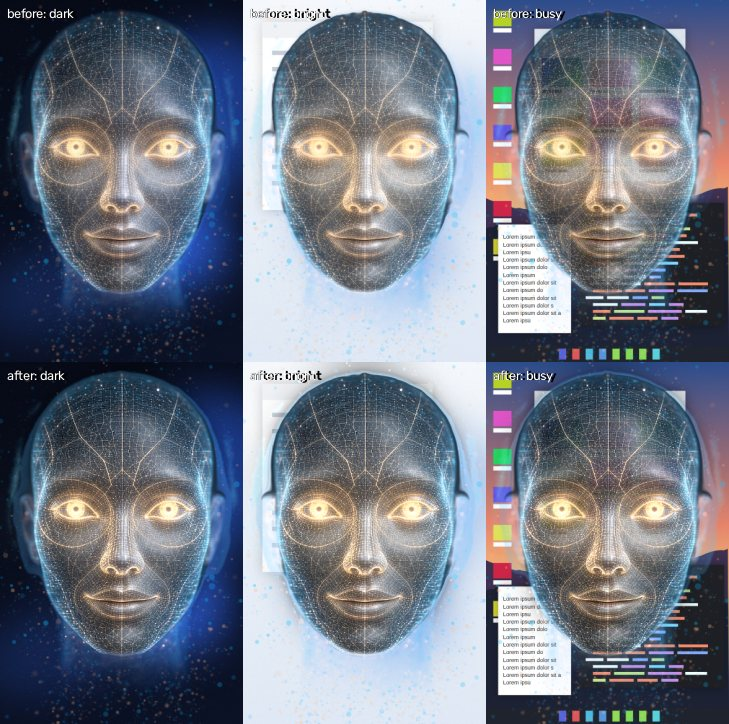
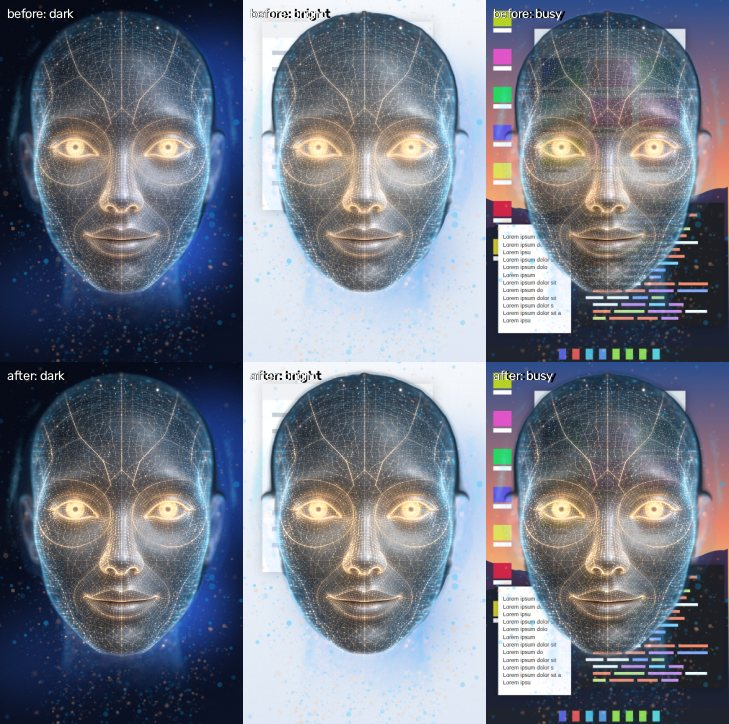
Docs: the behaviour's calm stretches and the user first; the hologram's tiers, outline and cost, remeasured
Claude-Session: https://claude.ai/code/session_01PYS5SFJYkxWXZ5M9LNxvi9

diff --git a/docs/RENDERER.md b/docs/RENDERER.md
@@ -276,63 +276,81 @@ On top of the motion, `src/avatar/behavior.js` gives the avatar a person's spont
 posture, a gaze target of its own, face channels outside speech).
 
 * **Scheduling.** Four tracks (gaze, head, face, breath), one gesture at a time on each. A free
-  track waits a random time (gamma(2): random, without a Poisson process' very long gaps) drawn
-  from the total rate of the gestures that fit the situation now (the state, typing, the camera's
-  view of the user, boredom), then starts one of them picked by its rate. Each kind has a
-  refractory period (a pick inside it does not happen), and every instance draws its own
-  durations, amplitudes and directions; a change of situation draws the pending waits again, the
-  first one in a new state half as long. Start times are continuous (not frames): 60 and 144 Hz
-  show the same behaviour. Nothing runs on a clock.
+  track waits an exponential (random, memoryless) time drawn from the total rate of the gestures
+  that fit the situation now (the state, typing, the camera's view of the user, boredom), then
+  starts one of them picked by its rate. Each kind has a refractory period (a pick inside it does
+  not happen), and every instance draws its own durations, amplitudes and directions; a change of
+  situation draws the pending waits again, the first one in a new state half as long. Start times
+  are continuous (not frames) and every track, the posture, the activity state and the user's
+  events draw from their own random stream: 60 and 144 Hz show the same gestures at the same
+  moments for minutes on end. Nothing runs on a clock.
+* **Calm and active stretches.** People move in bursts and are still in between: a hidden slow
+  activity state alternates calm bouts (log-normal, median 40 s) with active ones (median 25 s)
+  and scales the rates (x 0.17 calm, x 2.3 active in idle, the square root of that while
+  listening or thinking; normalised to the kinds' mean). The gestures come in clusters (the Fano
+  factor of their onsets in 30 s windows is 1.2-2.5 at the default liveliness; a regular process
+  is < 1) with a calm half minute in most two-minute windows.
+* **The user comes first.** The cursor (`lookAt(..., 'cursor')`), the camera's face, the user
+  coming back into view or looking back cut the avatar's own looks short at once: the eyes are on
+  the user within ~0.1 s, the head's share of the look goes back in 0.2-0.35 s, and no new look of
+  its own starts for 1.2-2 s.
 * **Kinematics.** Minimum-jerk envelopes and pulses that start and end at rest; a look into the
   room is a saccade of the eyes (the eye controller) with the head following in minimum-jerk steps
-  (35-50 % of it, 0.3-0.8 s, starting a moment after the eyes; the eyes counter-rotate, so the
-  gaze holds still while the head arrives). The posture drifts through slow critically damped
-  springs toward targets that change every 4-45 s (log-normal). A gesture cut short (a state
-  change) fades out over 0.25-0.45 s, so nothing steps.
-* **Repertoire** (rates per minute at the default liveliness):
+  (30-50 % of it, at least what keeps the eyes within 13 deg of straight ahead in the head;
+  0.3-0.8 s, starting a moment after the eyes; the eyes counter-rotate, so the gaze holds still
+  while the head arrives). Held tilts settle back a little and wander; the posture drifts through
+  slow critically damped springs toward targets that change every 4-45 s (log-normal; longer in a
+  calm bout) and wanders 0.2-0.3 deg around them. A gesture cut short fades out, so nothing steps.
+* **Repertoire** (rates per minute at the default liveliness, before the activity scaling):
 
 | Situation | Gestures |
 |---|---|
-| idle | looks around the room (4.5: 7-22 deg, the head along, sometimes scanning two or three points, then back), head tilts (2), posture shifts, brow flashes (1), brief smiles (0.7), lip presses (0.6) and purses, a swallow (0.35), a deep breath (0.45), a slow neck roll (0.15) |
-| idle for minutes, or the camera sees nobody | bored: longer looks away, slumping, sighs, yawns (the mouth opening slowly with the eyes narrowing and the head tilting back; at most every ~2 min) |
+| idle | looks around the room (4.5: 7-17 deg, the head along, sometimes scanning two or three points, then back), head tilts (2), posture shifts, lip presses (0.6) and purses, a swallow (0.35), a deep breath (0.45), a slow neck roll (0.15); brow flashes and smiles mostly for someone: 0.25 each at nobody, 1.2 and 1.0 while the camera sees you looking |
+| the user back after a quiet minute (the cursor, typing) | a brow flash (half the time) and / or a smile (a third) 0.2-0.5 s later |
+| idle for minutes, or the camera sees nobody | bored: longer looks away, slumping, sighs, now and then a yawn (a deep inhale with the brows up, a slow gape with no rounding of the lips while the eyes squeeze half shut and the head tips back 4-6 deg, a quicker close; fewer as one bored stretch goes on: x 0.35 per yawn, never within 4 min) |
 | the user types | leans in, glances down at the chat now and then (16) |
-| listening | leans in with a slight tilt, backchannel nods (8; one or two, with a brow / lip "mm-hm"), attentive tilts, a few brow flashes |
-| thinking | the eyes search the averted region (8), a "hmm" (3: the head tilts, lips pressed, a squint), pressed or pursed lips, squints |
-| speaking | the prosody leads: no gestures, only a slower posture drift, and an energy pulse through the hologram on each accent and emphasis |
-| the camera sees you | engaged: fewer look-arounds (the eye contact of [CAMERA.md](CAMERA.md) leads), more smiles, the head mirrors your tilt a little (28 %, a few hundred ms behind), and a smile with a brow flash when you look back at it after looking away |
+| listening | leans in with a slight tilt, a nod at the pauses of the user's voice (half of them: a quarter of a second into a pause after 1.2 s or more of voice, from the mic meter's level), a few more at random (2), a brow "mm-hm" on 3 nods in 10, attentive tilts, a few brow flashes |
+| thinking | the eyes settle on another spot of the averted region now and then (3, held ~1.4 s; the director's own small shifts pause meanwhile), a "hmm" (3: the head tilts, lips pressed, a squint), pressed or pursed lips, squints |
+| speaking | the prosody leads: no gestures, only a slower posture drift, and an energy wave through the hologram on each emphasis |
+| the camera sees you | engaged: fewer look-arounds (the eye contact of [CAMERA.md](CAMERA.md) leads), the head mirrors your tilt a little (28 %, a few hundred ms behind); when you look back at it after 3 s or more away, now and then (p 0.6 x smoothstep(3, 20 s) of the time away, at most once a minute) a smile with a brow flash, once its eyes are back on you |
 
 * **Liveliness.** *Settings → Avatar → Liveliness* (`avatar.liveliness`, 0..2, default 1) scales
   the rates and (0.55 + 0.45 x liveliness) the sizes; 0 turns the behaviour off (so does
   `idleMotion` 0, and settled renders never have it: the golden poses are unchanged). It is a
   separate axis from *Expressiveness*, which scales the motion that comes with speech.
 * **Inputs.** `avatar.setUser({ typing })` from the chat box (`src/main.js`), `{ present, looking,
-  roll }` from the camera (`src/vision/index.js`; `roll` is the head tilt in the selfie view); a
+  roll }` from the camera (`src/vision/index.js`; `roll` is the head tilt in the selfie view),
+  `{ voice }` from the controller's tick while the mic listens (the meter's level, 0..1); a
   followed cursor counts as the user being around (no boredom).
 * New AnimState channels: `lean`, `shiftX` (the posture: the heads scale the head about its pivot
   by up to 3 % and shift it by 2 % of the face height), `squint` (both lids narrow, the lower one
-  rises), `pulse`. All 0 at rest.
+  rises; at 1 the eyes are about half shut), `pulse`. All 0 at rest.
 
-Measured on deterministic 60 Hz traces of the director (idle 300 s, listening and thinking
-120 s, typing 60 s, the camera 120 s; seeds 1-3), before -> after:
+Measured on deterministic 60 Hz traces of the director (5 seeds each: idle 600 s with the user
+around, idle 600 s left alone, listening and thinking 180 s, typing 120 s, the camera 240 s with
+the user looking away for 1.5-6.5 s every 6-26 s), before (87bb500, no behaviour layer) -> the
+first behaviour layer -> now:
 
-| | before | after |
-|---|---|---|
-| gestures per minute (idle / listening / thinking / typing / camera) | 0 | 7-8 / 10 / 12-13 / 7-11 / 7-8 |
-| idle: gaze shifts >= 8 deg per minute, the largest | 0.2-1.0, 9 deg | 6.3-7.5, 23-26 deg |
-| idle: time looking more than 5 deg away from the user | 0-2 % | 22-26 % |
-| idle: head yaw / pitch / roll rms | 1.0 / 0.4-0.5 / 0.2-0.3 deg | 3.4-3.7 / 1.4-1.7 / 1.7-1.9 deg |
-| idle: brow raises, lip presses per minute | 0, 0 | 1.0-1.2, 0.2-0.8 |
-| idle: head yaw's largest one-frame velocity step / its peak speed | 0.12-0.17 | 0.08-0.09 |
-| idle: autocorrelation peak after decorrelation, lags 2-60 s (head yaw / roll / gaze; a loop: ~1) | 0.09-0.22 / 0.16-0.24 / 0.11-0.17 | 0.02-0.11 / 0.00-0.01 / 0.05-0.12 |
-| idle: blinks per minute | 18-20 | 18-20 |
-| listening: head roll rms, brow "mm-hm"s per minute | 0.2-0.3 deg, 0 | 1.6-2.3 deg, 6-9 |
-| thinking: gaze shifts >= 1 deg per minute, lip presses per minute | 36-39, 0 | 50-58, 3-4 |
-| typing: time looking down at the chat | 0 % | 12-14 % |
-| camera (eye contact): head roll rms, smiles per minute | 0.2-0.3 deg, 0 | 1.6-2.0 deg, 1.5-2.6 |
+| | before | first layer | now |
+|---|---|---|---|
+| gestures per minute (idle / listening without a voice / thinking / typing / camera) | 0 | 8.2-9.6 / 9-11 / 11-14 / 8-13 / 5-7 | 5.3-6.6 / 1.1-4.1 / 5-11 / 5.5-11.5 / 1.3-3.8 |
+| idle: Fano factor of the gesture onsets in 30 s windows (< 1: more regular than random) | - | 0.31-0.56 | 1.57-2.13 |
+| idle: 2-minute windows with a calm half minute (no gesture starting) | - | 0-25 % | 62-100 % |
+| idle: longest still stretch of the head per 10 min | 28-57 s | 11-14 s | 16-23 s (left alone: 15-43 s) |
+| idle: time looking more than 5 deg away from the user | 1 % | 10-13 % | 7-10 % |
+| idle: brow raises / smiles per minute (nobody watching) | 0 / 0 | 0.8-1.5 / 0.4-1.1 | 0.2-0.5 / 0.2-0.4 |
+| idle: eyes pinned at their range (frames with eye-in-head at the clamp) | 0 % | 0.3-0.6 % | 0.02-0.19 % |
+| the cursor appears during a look into the room: eyes on it (median / p90 / max, 40 trials) | 0.22 / 0.22 / 0.23 s (no such looks) | 0.22 / 1.13 / 3.70 s | 0.07 / 0.08 / 0.08 s |
+| the user comes back (camera) during a bored look-away: eyes on them (max), acknowledged while still looking away | - | 12.2 s, 40 of 40 | 0.07 s, 0 of 28 |
+| camera: acknowledgments per minute, brow raises / smiles per minute | 0, 0 / 0 | 2.5 (every 22 s, CV 0.24), 3-4.5 / 2.5-4.3 | 0.05, 0-1 / 0-0.75 |
+| listening: brow raises per minute | 0 | 6.3-7.3 | 0.3-1.7 |
+| thinking: saccades per minute, median fixation | 17-22, 1.9-3.1 s | 31-37, 1.05-1.23 s | 19-24, 1.9-2.1 s |
+| bored: yawns per 10 min (5 x 10 min left alone), interval CV | 0 | 2.8, 0.17 (a clock at its 110 s refractory) | 1.8, at least 240 s apart and rarer as the boredom goes on |
+| 60 vs 144 Hz, 240 s (idle seeds 1-3, listening and thinking 1-2): the same gestures | - | 5 of 7 runs | 7 of 7 (start times within 0.03 s) |
+| head yaw / roll rms (idle with the user around) | 1.0 / 0.25 deg | 2.0-2.4 / 1.6-1.9 deg | 1.9-2.3 / 1.4-1.8 deg |
+| blinks per minute (idle) | 16-18 | 18-20 | 17-20 |
 
-(The idle traces have no user activity at all, so boredom sets in after the first minute: fewer
-smiles, longer looks away, a yawn or two in five minutes. The CPU cost of the behaviour layer is
-~0.03 ms per frame.)
+(The CPU cost of the behaviour layer is ~0.03-0.05 ms per frame.)
 
 In the harness: `/dev/avatar.html?sim=1&state=thinking&t=20` steps a live run to 20 s
 (`window.__seek(t)`; `window.__avatar.setUser(...)` in between), `life=<0..2>` sets the
@@ -343,24 +361,38 @@ liveliness.
 * **Light that turns with the head** (relief): the relief is a height field, so it has real surface
   normals; a key light from the upper left front lights it relative to the rest pose (whose light
   is baked into the plate): turning toward the light brightens that side, away from it darkens it,
-  a glint slides over the brow, the nose and the cheekbones, and the edges turning away catch more
-  cyan rim light. At rest the key light changes nothing.
-* **Crisper and brighter:** the plate is sharpened (an unsharp mask against a coarser mip level);
-  the eyes' bright parts and the lit gold lines glow past white, so the bloom takes them as a halo
-  around crisp lines instead of a haze over the face; the eyes' glow breathes and rises with the
-  voice; faint drifting scan lines; an emphasis sends an energy front out from the brow over the
-  lines (AnimState `pulse`).
+  a tight cyan-white glint slides over the brow, the nose and the cheekbones, and the edges
+  turning away catch more cyan rim light (never whitened: over a white desktop a white edge melts
+  into it; and only on the solid face and cranium, not on the fringe, the ears or the glow around
+  them, where a rim reads as a haze around the head). At rest the key light changes nothing.
+* **Crisper and brighter:** the gold lines and the eyes are sharpened (an unsharp mask against a
+  coarser mip level), the rest of the plate barely and the fine wire grid not at all (its
+  sub-pixel lines would crawl and sparkle as the head moves); the eyes' bright parts and the lit
+  gold lines glow, the eyes through a soft knee that keeps their hue (the iris centre glows amber,
+  never white-hot, and its fibres survive); the eyes' glow breathes and rises a little with the
+  voice; faint scan lines (a 3 CSS px pitch at any display scale) drift slowly; an emphasis sends
+  an energy front out from the brow over the lines and the grid (AnimState `pulse`).
 * **Depth:** the aura turns and shifts with the head about its pivot, a few frames behind it
   (springs), each layer at its own depth: the face, the halo, the ribbons and the far field slide
   against each other as the head moves (parallax).
 * **A clear silhouette over any desktop:** the relief's face and cranium are glass that occludes
   the desktop (`opacity` 0.94; its baked occlusion mask, without the old glow gate), so a busy
   desktop no longer shows through the forehead; the bloom chain also carries the scene's coverage,
-  and the final pass lays a soft dark halo just outside the head with it (up to 40 % over
-  ~20-30 px), which separates it from a bright or busy desktop and is invisible over a dark one.
-  The ears, the fringe and the dissolving neck stay pure light.
-* **Sharper output:** *High* renders at the display's full resolution up to 3x (was 2x); MSAA on
-  High (4x) and Medium (2x), FXAA on Low; the plates are mipmapped and anisotropically filtered.
+  and the final pass lays a thin dark outline just outside the head with it (up to 30 %, gone
+  within ~8 CSS px; its base mip level is picked from the pixel ratio and the bloom scale, so it is
+  as wide at any display scale and on every tier), which separates it from a bright or busy
+  desktop and is invisible over a dark one. The ears, the fringe and the dissolving neck stay pure
+  light.
+* **Output:** *High* renders at the display's resolution up to 2x with 4x MSAA, *Medium* up to
+  1.5x with 2x MSAA, *Low* at 1x without either (the relief's edges are soft in its own texture;
+  FXAA, tried, smeared the fine grid and the irises and cost a fifth more); the plates are
+  mipmapped and anisotropically filtered.
+* **Automatic quality** (`QualityGovernor`, src/avatar/quality.js): when the frame rate stays
+  below ~50 fps for 3 s (0.85 x the refresh rate on a slower display, never below 42.5 fps; the
+  refresh is the frame loop's shortest frame interval lately), it first renders that tier at
+  0.75 x its pixel ratio cap (when that lowers it), then steps down to the next tier, one step at a
+  time with a warm-up after each. (It used to act only below 24 fps, so 25-50 fps on High was
+  never corrected.)
 * **Projector light** (optional, *Settings → Avatar → Projector light*, `avatar.projector`): a small
   bright emitter at the bottom of the view and a faint cone of light widening from it into the
   neck (brighter edges, slow beams, scan lines running up), fading out before the face; it
@@ -368,28 +400,44 @@ liveliness.
 
 ![The hologram before (top) and after (bottom) over a dark, a bright and a busy desktop](screenshots/pop_backdrops.jpg)
 
-Render cost, SwiftShader (software rendering on the CPU: a proxy for the GPU's fragment work, and a
-noisy one, so two runs: one after the other, and interleaved block by block with the best block
-taken), ms per frame at 392 x 584 CSS px, the idle avatar:
+Measured on stills of the harness (392 x 584 CSS px, SwiftShader, fixedTime 1) over black and
+the `bg=dark|bright|busy` desktops, before (87bb500) -> the first pass -> now:
 
-| Tier | before (run 1 / run 2) | after (run 1 / run 2) | change |
+| | before | first pass | now |
 |---|---|---|---|
-| High, DPR 1 (MSAA 4x) | 178 / 188 | 217 / 219 | +17-22 % |
-| High, DPR 2 (784 x 1168) | 546 / 532 | 718 / 645 | +21-32 % |
-| Medium (MSAA 2x) | 175 / 268 | 218 / 312 | +17-25 % |
-| Low (now with FXAA) | 81 / 127 | 119 / 184 | +44-48 % |
+| a busy / bright desktop showing through the face (mean difference to the same frame over black, 0-255) | 18.2 / 28.2 | 8.8 / 13.5 | 8.9 / 13.5 |
+| the edge's luminance step over a bright desktop, at rest / head turned 0.3 rad | 0.337 / 0.337 | 0.302 / 0.210 | 0.350 / 0.303 |
+| ... over a busy / a dark desktop | 0.165 / 0.134 | 0.161 / 0.138 | 0.164 / 0.146 |
+| light 1-12 px outside the head over black, relative to the face (glow spill) | 0.246 | 0.317 | 0.242 |
+| the dark outline's alpha 4-6 / 8-10 / 24-26 CSS px out (DPR 1; DPR 2 within 0.01) | 0.12 / 0.10 / 0.04 | 0.30 / 0.23 / 0.09 | 0.18 / 0.10 / 0.04 |
+| crispness inside the face (mean abs. Laplacian), High / Low | 0.167 / 0.168 | 0.248 / 0.123 | 0.191 / 0.177 |
+| grid crawl: frame-to-frame high-pass change on a 0.003 rad yaw sweep, DPR 1 / 2 (relative to the detail) | 0.027 / 0.035 (0.68 / 0.77) | 0.040 / 0.049 (0.70 / 0.83) | 0.031 / 0.039 (0.69 / 0.78) |
+| eye pixels above L 0.98 (22 px around the pupils), rest / speaking (speech 0.85, energy 0.9) | 0.2 % / 39 % | 16 % / 48 % | 0.3 % / 30 % |
+| idle shimmer: frame-to-frame change in the face at liveliness 0 (0-255) | 2.97 | 4.21 | 3.33 |
 
-The projector light adds nothing measurable (within 3 %); the draw calls are unchanged (13 / 11 /
-9). The CPU side of a frame (director, behaviour, particles' springs) went from 0.03 to 0.04-0.07
-ms. Not measured on real GPUs here: on a desktop GPU this is far inside the 16.7 ms frame; on a
-weak integrated GPU the automatic quality still steps down to Medium and Low as before (below 24
-fps for 3 s, `QualityGovernor`), and Low is where the extra cost is largest.
+Render cost, SwiftShader (software rendering on the CPU: a proxy for the GPU's fragment work, and a
+noisy one), ms per frame of the idle avatar, the three builds interleaved block by block (median
+of 6 blocks of 15 frames; DPR 3 renders at High's cap):
 
-The rest pose moves further from the reference frame by design (the same pose and shape, but
-brighter lines and eyes, the rim, the sharpening, the scan lines): `compare.py score` against
-`preview/neutral.jpg` (masked, 784 x 1168) SSIM 0.517 -> 0.465, SSIM (2 px blur) 0.925 -> 0.896,
-PSNR 21.3 -> 19.6 dB, MAE 14.0 -> 18.0. The settled poses themselves (fixedTime and settle
-renders, the director tests) are unchanged: the behaviour layer is off in them.
+| Tier, DPR | before | first pass | now |
+|---|---|---|---|
+| High, 1 (MSAA 4x) | 197 | 283 | 238 |
+| High, 2 (784 x 1168) | 575 | 691 | 672 |
+| High, 3 | 544 (784 x 1168) | 1289 (1176 x 1752) | 647 (784 x 1168) |
+| Medium, 1 (MSAA 2x) | 184 | 225 | 226 |
+| Low, 1 | 84-86 | 110-124 | 88 |
+
+The projector light adds nothing measurable; the draw calls are unchanged (13 / 11 / 9). The CPU
+side of a frame (director, behaviour, particles' springs) is 0.04-0.07 ms. Not measured on real
+GPUs here: on a desktop GPU this is far inside the 16.7 ms frame; a weak integrated GPU gets the
+automatic quality's steps (above) and Low, which costs what it did before the light.
+
+The rest pose moves a little from the reference frame by design (the same pose and shape, but
+brighter lines and eyes, the rim, the sharpening): `compare.py score` against
+`preview/neutral.jpg` (masked, 784 x 1168), before -> the first pass -> now: SSIM 0.517 -> 0.465
+-> 0.507, SSIM (2 px blur) 0.925 -> 0.896 -> 0.917, PSNR 21.3 -> 19.6 -> 20.6 dB, MAE 14.0 -> 18.0
+-> 15.0. The settled poses themselves (fixedTime and settle renders, the director tests) are
+unchanged: the behaviour layer is off in them.
 
 ## Using it
 

diff --git a/README.md b/README.md
@@ -130,9 +130,9 @@ With the local voice the face also follows the sound itself: the jaw opens with 
 
 **Motion.** Everything moves smoothly, at any frame rate, and never repeats: the eyes jump between fixations the way human eyes do (quick saccades, holding still in between, following a moving cursor or face smoothly), the head turns a little after the eyes on bigger looks, blinks come at natural, irregular intervals (some partial, the lid following a downward look), the idle sway and breathing wander, and the lips part in a rounded opening with the corners closed. On the relief head the irises move under the lids, which stay put. [docs/RENDERER.md](docs/RENDERER.md#motion) has the details and the measurements.
 
-**Life.** Between replies the avatar behaves like a person sitting at the screen, never in a loop: it looks around the room (the head going along) and back at you, tilts its head, shifts its posture, raises its brows, smiles briefly, presses its lips, swallows, takes a deep breath now and then. While you type it leans in and glances down at the chat; while you talk it leans in and nods along; while it thinks it looks up and aside, presses or purses its lips and tilts its head ("hmm"). Left alone for minutes it gets bored (longer looks away, a sigh, a yawn). With the camera on it is more engaged: it mirrors your head tilt a little and smiles when you look back at it. *Settings → Avatar → Liveliness* sets how much (0 % still, 100 % default, 200 % very lively). [docs/RENDERER.md](docs/RENDERER.md#behaviour) has the details.
+**Life.** Between replies the avatar behaves like a person sitting at the screen, never in a loop: it looks around the room (the head going along) and back at you, tilts its head, shifts its posture, presses its lips, swallows, takes a deep breath now and then, in bursts with calm stretches of half a minute or more in between. You always come first: move the mouse or come back into the camera's view and its eyes are on you at once. While you type it leans in and glances down at the chat; while you talk it leans in and nods at the pauses of your voice; while it thinks it looks up and aside, presses or purses its lips and tilts its head ("hmm"). Brow flashes and smiles are for you: when you come back after a quiet minute, or (with the camera on) now and then when you look back at it after a while. Left alone for minutes it gets bored (longer looks away, a sigh, now and then a yawn). With the camera on it mirrors your head tilt a little. *Settings → Avatar → Liveliness* sets how much (0 % still, 100 % default, 200 % very lively). [docs/RENDERER.md](docs/RENDERER.md#behaviour) has the details.
 
-**Look.** The hologram is lit as the 3-D head it is (turning toward the light brightens that side, a glint slides over the brow and nose, the edges turning away catch more rim light), its lines and eyes are crisp and glow past white, and the aura moves with the head at its own depths. Its face is glass that hides a busy desktop behind it, with a soft shadow around the head so it stands out over a bright or busy desktop too. *Settings → Avatar → Projector light* adds a cone of light under the bust. [docs/RENDERER.md](docs/RENDERER.md#the-hologram-depth-light-glow) has the details and the cost.
+**Look.** The hologram is lit as the 3-D head it is (turning toward the light brightens that side, a glint slides over the brow and nose, the edges turning away catch more cyan rim light), its gold lines and eyes are crisp and glow, and the aura moves with the head at its own depths. Its face is glass that hides a busy desktop behind it, with a thin dark outline around the head so it stands out over a bright or busy desktop too. *Settings → Avatar → Projector light* adds a cone of light under the bust. On a slow GPU the automatic quality first lowers the resolution a little, then the tier, whenever it cannot hold ~50 fps. [docs/RENDERER.md](docs/RENDERER.md#the-hologram-depth-light-glow) has the details and the cost.
 
 ![The hologram before (top) and after (bottom) over a dark, a bright and a busy desktop](docs/screenshots/pop_backdrops.jpg)
 

diff --git a/docs/ARCHITECTURE.md b/docs/ARCHITECTURE.md
@@ -346,10 +346,11 @@ avatar.setProsody(cue | cue[])   // speech prosody from the lip-sync: { type: 'a
 avatar.setIntonation({ pitch, voiced }) // the local voice's pitch, semitones re the speaker's usual
                                  // one (src/audio/prosody.js): the head and brows follow it a little
 avatar.setExpression({ smile, browUp }) // 0..1 (the camera: smile back, wake-up greeting)
-avatar.setUser({ typing?, present?, looking?, roll? }) // what the app knows about the user, for the
-                                 // spontaneous behaviour (src/avatar/behavior.js): a key typed now; the
-                                 // camera's view (present null = no camera; roll = head tilt in the
-                                 // selfie view, rad, + counter-clockwise on screen)
+avatar.setUser({ typing?, present?, looking?, roll?, voice? }) // what the app knows about the user,
+                                 // for the spontaneous behaviour (src/avatar/behavior.js): a key typed
+                                 // now; the camera's view (present null = no camera; roll = head tilt in
+                                 // the selfie view, rad, + counter-clockwise on screen); voice = the mic
+                                 // meter's level now, 0..1, while it listens (nods at the pauses)
 avatar.blink()
 avatar.lookAt(x, y, kind?)       // -1..1 in canvas space (cursor follow, camera eye contact via src/vision/gaze.js); kind 'cursor' | 'face' | 'glance' (the head goes along with a cursor or a face); lookAt(null) releases
 avatar.setOptions(partial)       // quality/particles/bloom/colors/expressiveness/liveliness (0..2)/projector at runtime
@@ -383,7 +384,7 @@ energy (0..1 overall glow), listen, think, speak, error, sleep (0..1 state weigh
 chinRaise, nostrilFlare (0..1, the face moving with the mouth: cheeks with spread vowels and
 smiles, the chin under pressed lips, the nostrils on a breath in; 0 at rest), lean, shiftX (-1..1,
 posture: toward the viewer, sideways), squint (0..1, both lids), pulse (0..1, an energy wave on an
-accent; the behaviour layer, 0 at rest and in settled renders)`. A head that does not know a
+emphasis; the behaviour layer, 0 at rest and in settled renders)`. A head that does not know a
 channel ignores it.
 
 ## 6. Voice server — `voice/` (Python 3.12, FastAPI + uvicorn)
